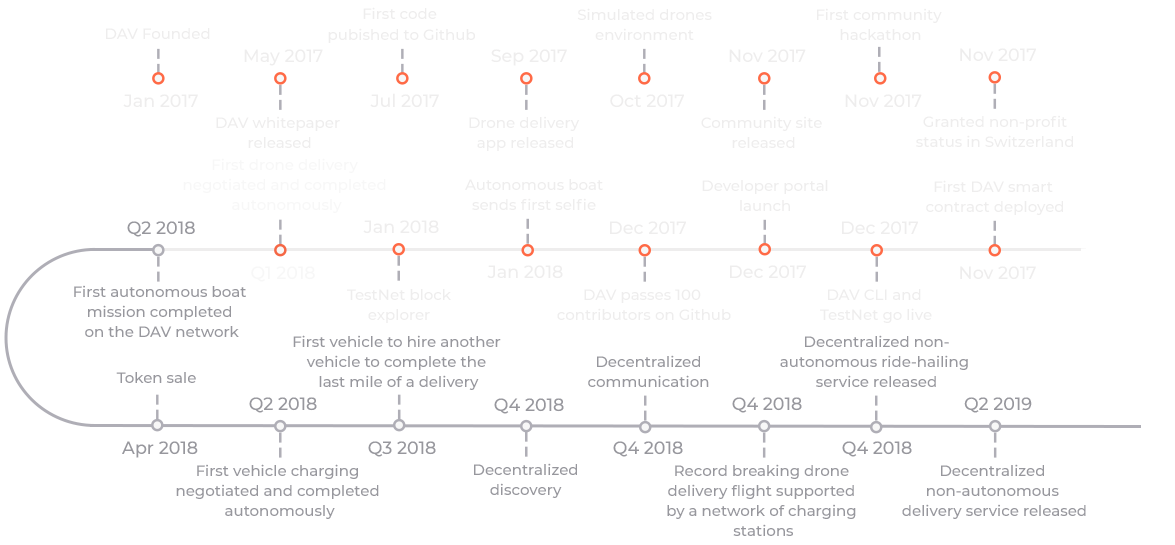
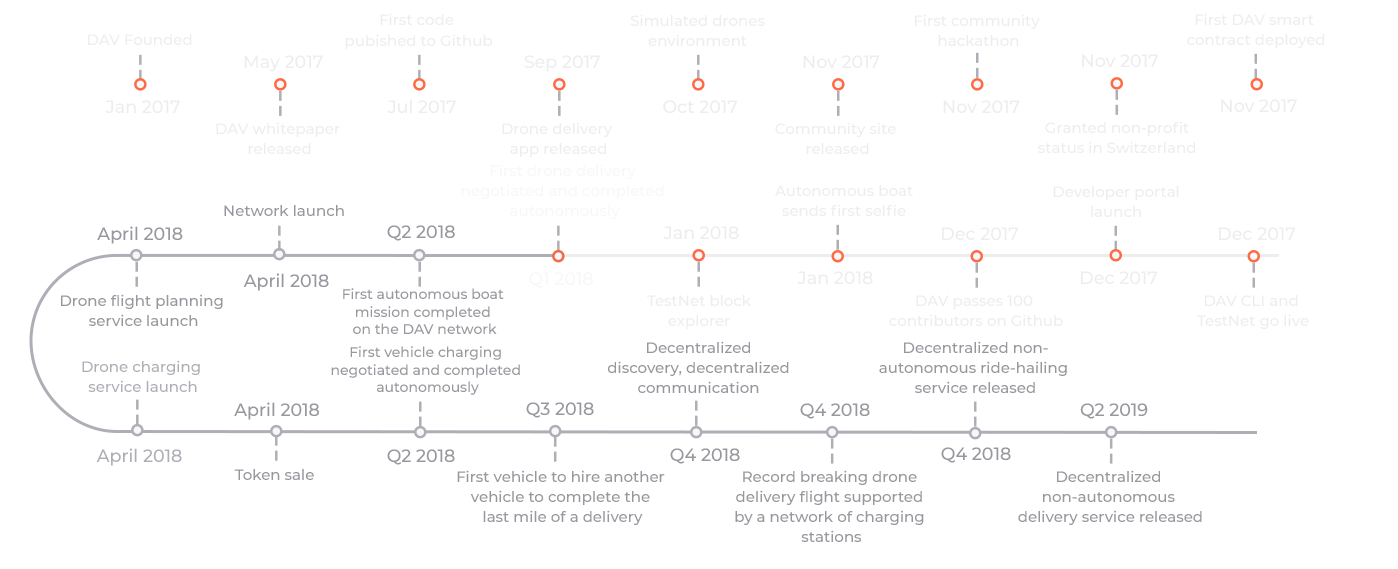
Updated roadmap

diff --git a/index.html b/index.html
@@ -353,7 +353,7 @@
 
     <div class="roadmap" id="roadmap">
       <h2>Roadmap Plan</h2>
-      <img src="img/roadmap.png?v=20180402">
+      <img src="img/roadmap.png?v=20180404">
       <a href="whitepaper.pdf" target="_blank">Download Our Whitepaper</a>
     </div>
 
